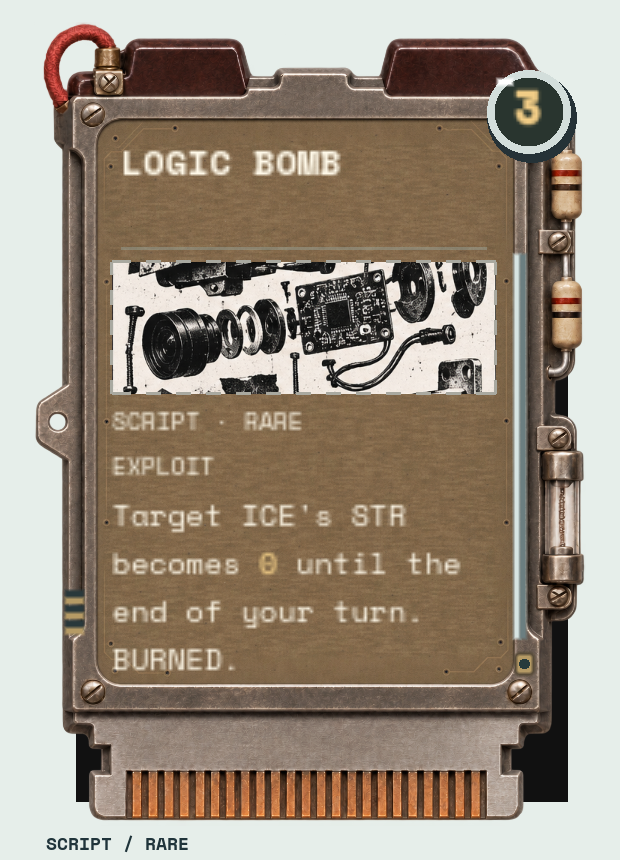
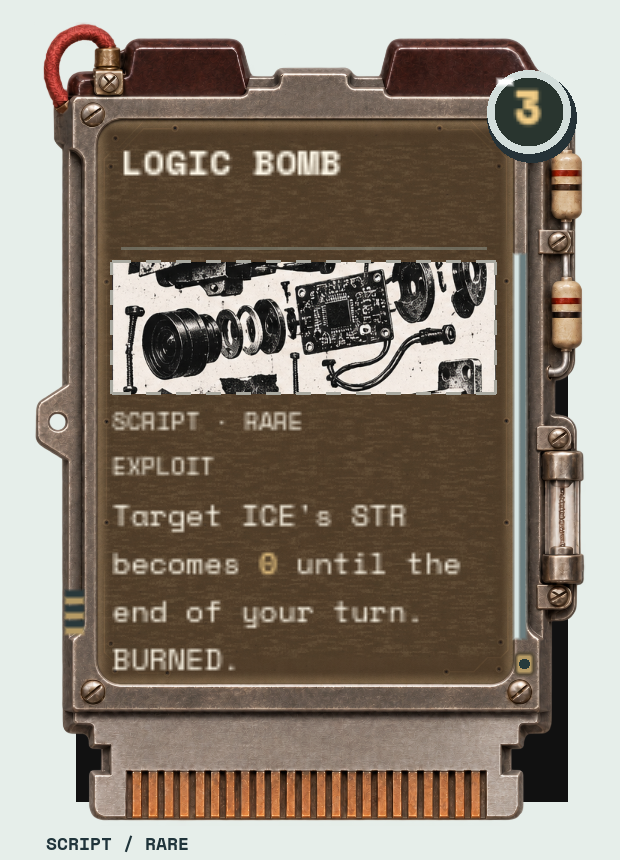
READ-001: darken the SCRIPT card face so amber and ivory text are legible [skip ci]
Amber on the brown SCRIPT face measured 3.55:1. A soft-edged shade
over the face only brings it to about 6.5:1 (ivory 9.3:1), in line
with PROGRAM. Rules 357/0, cartridge UI 625/0, Chrome stages 0 fails.
Fixtures refreshed. No Windows build.

Claude-Session: https://claude.ai/code/session_019hKEHvkDah2mghpwEjPDxT

diff --git a/docs/REDLINE_DEVELOPMENT_LOG.md b/docs/REDLINE_DEVELOPMENT_LOG.md
@@ -469,3 +469,7 @@ Refreshed ten CHROME-001 PNGs from `main` with Godot 4.3. All five capture stage
 ## 2026-11-17 — DEPRECATE-001: LOGIC BOMB and RELAY deprecated (Claude)
 
 **Designer decision:** "Let's deprecate logic bomb and relay for now. They don't work in the current rules environment." Recorded DEPRECATE-001 in the master design doc. Marked deprecated, not deleted, in Card Pools (LOGIC BOMB), ICE Passives, Core Rules §passives, Deck Synergy, ICE Corp 1 and the ICE Rules Bible (RELAY). CONSENT FORM and SWITCHBOARD have no passive for now. HANDOFF: ZEROED-001 interpretation closed; new Codex TO DO row to remove both from the build. Note: the approved CARDS-001 fixture `script-rare-logic_bomb.png` still shows LOGIC BOMB as a rarity sample. **Code changes:** none.
+
+## 2026-11-17 — READ-001: darker SCRIPT face for legible printing (Claude)
+
+**Designer instruction:** "make the contrast stronger so that the brown script cards are legible" (after Codex reported amber on brown SCRIPT was hard to read). Measured on the CARDS-001 fixtures: SCRIPT face (127,102,74) gave amber 3.55:1 and ivory 5.12:1 (amber below 4.5:1); PROGRAM amber 6.91:1. **Changed:** `godot/scripts/ui/friendly_lie/card.gd` adds a soft-edged `ScriptFaceShade` (#2A1C10 at 55%) over SCRIPT's face only, below the board grain, fitted to the face bounds measured from `script.png` (11,21,139,188). Result: face about (83,64,44), amber about 6.5:1, ivory about 9.3:1. Brown stays brown; chassis art, textures, colours of other types, rules and costs are unchanged. **Validation:** Godot 4.3 import; rules 357 passed, 0 failed; cartridge UI 625 checks, 0 failures; Chrome stages 1–5, 0 failures. Refreshed SCRIPT and encounter PNGs in `fixtures/cards-001/` and all ten in `fixtures/chrome-001/`; `four-card-types.png` is not produced by a checked-in script and was not refreshed. **Not changed:** PROTOCOL's blue-green face measures amber 4.18:1, also under 4.5:1; raised with the designer. Committed with [skip ci]: no Windows build.
